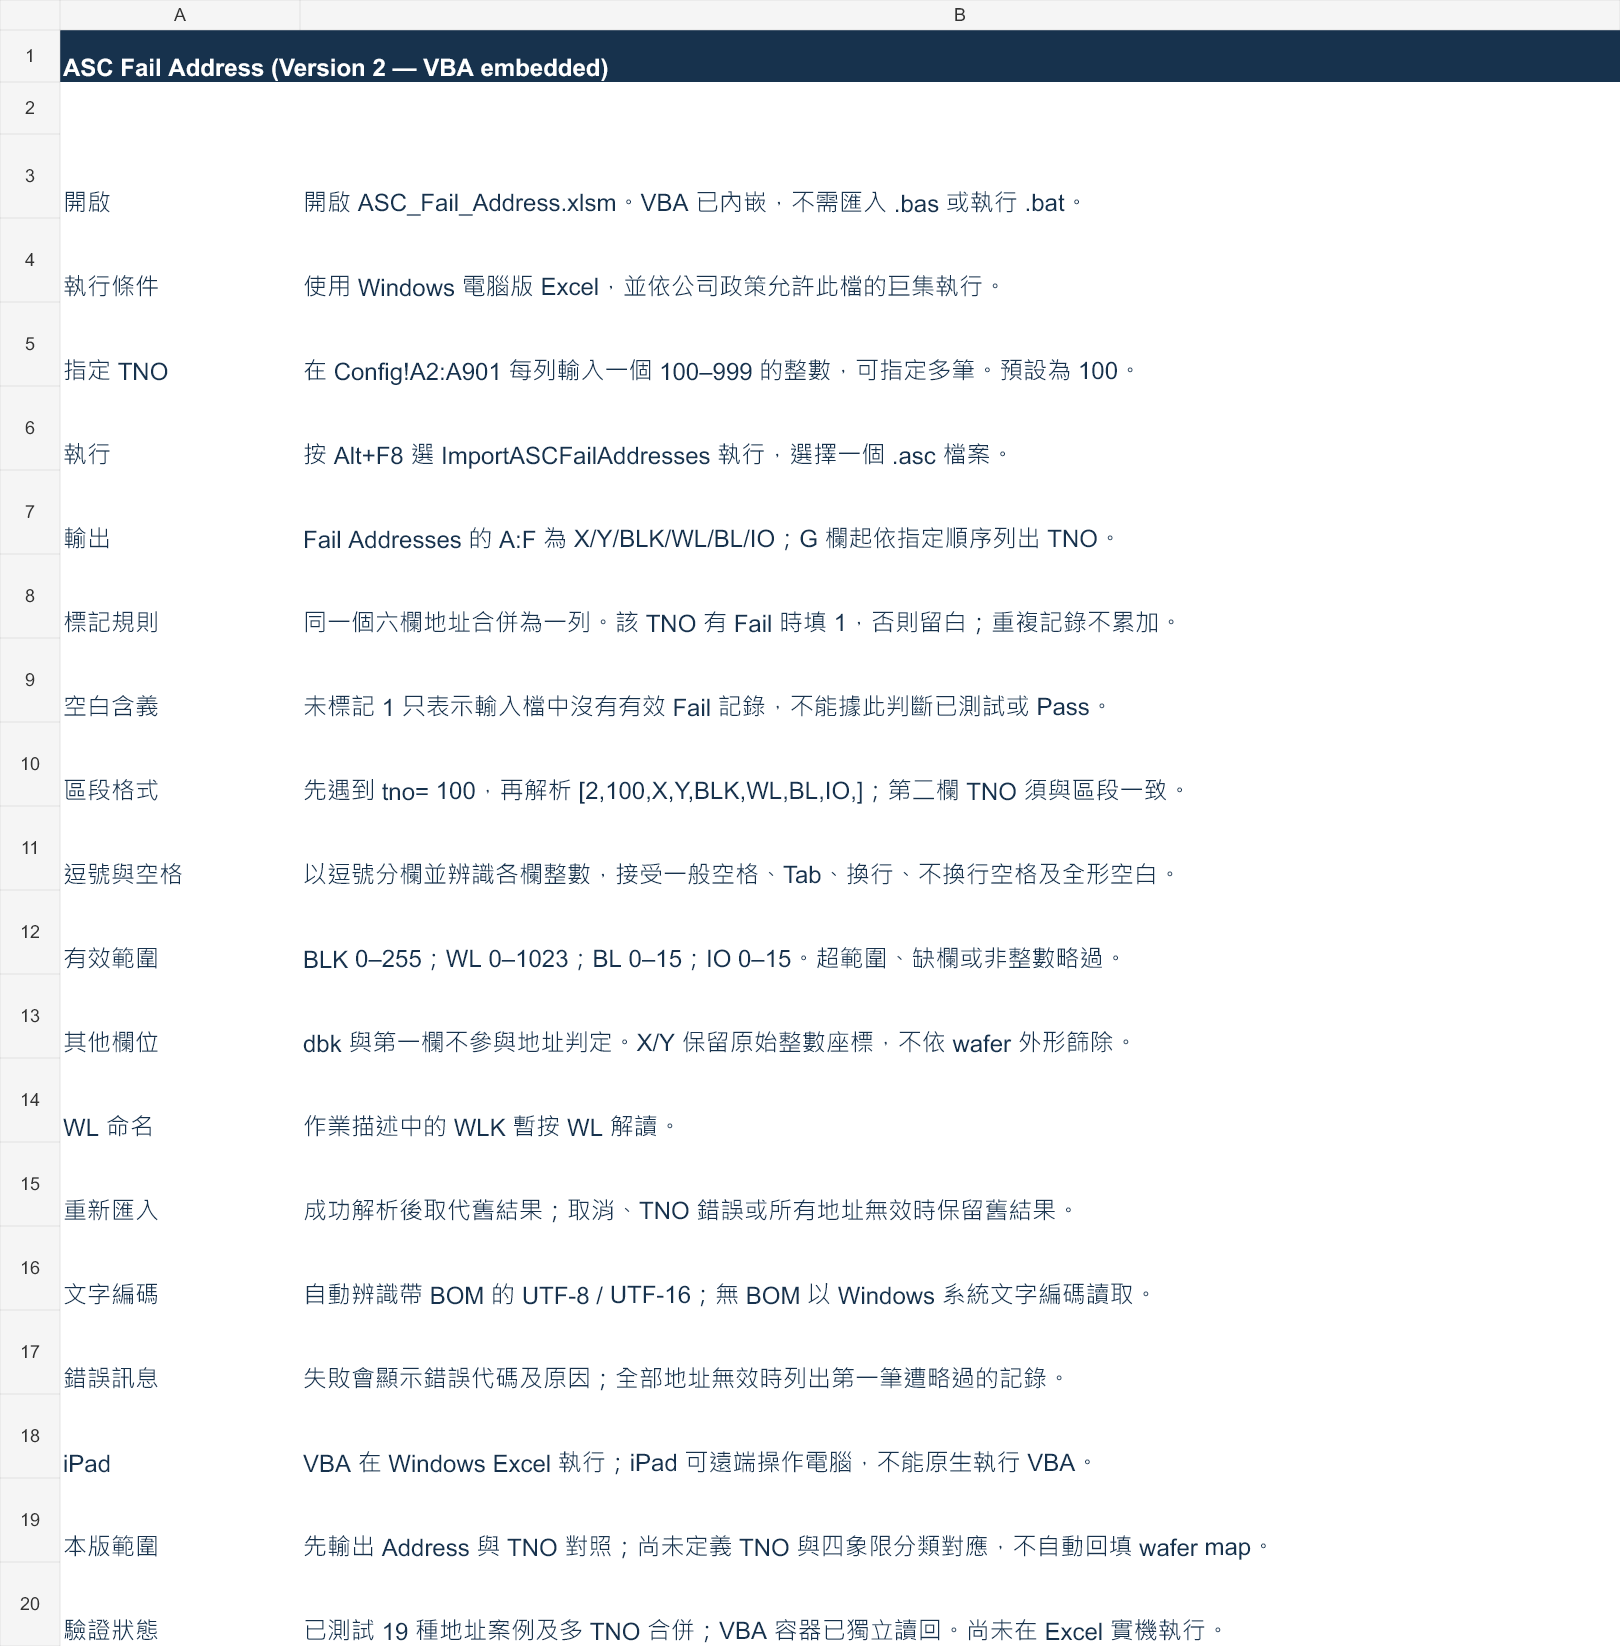
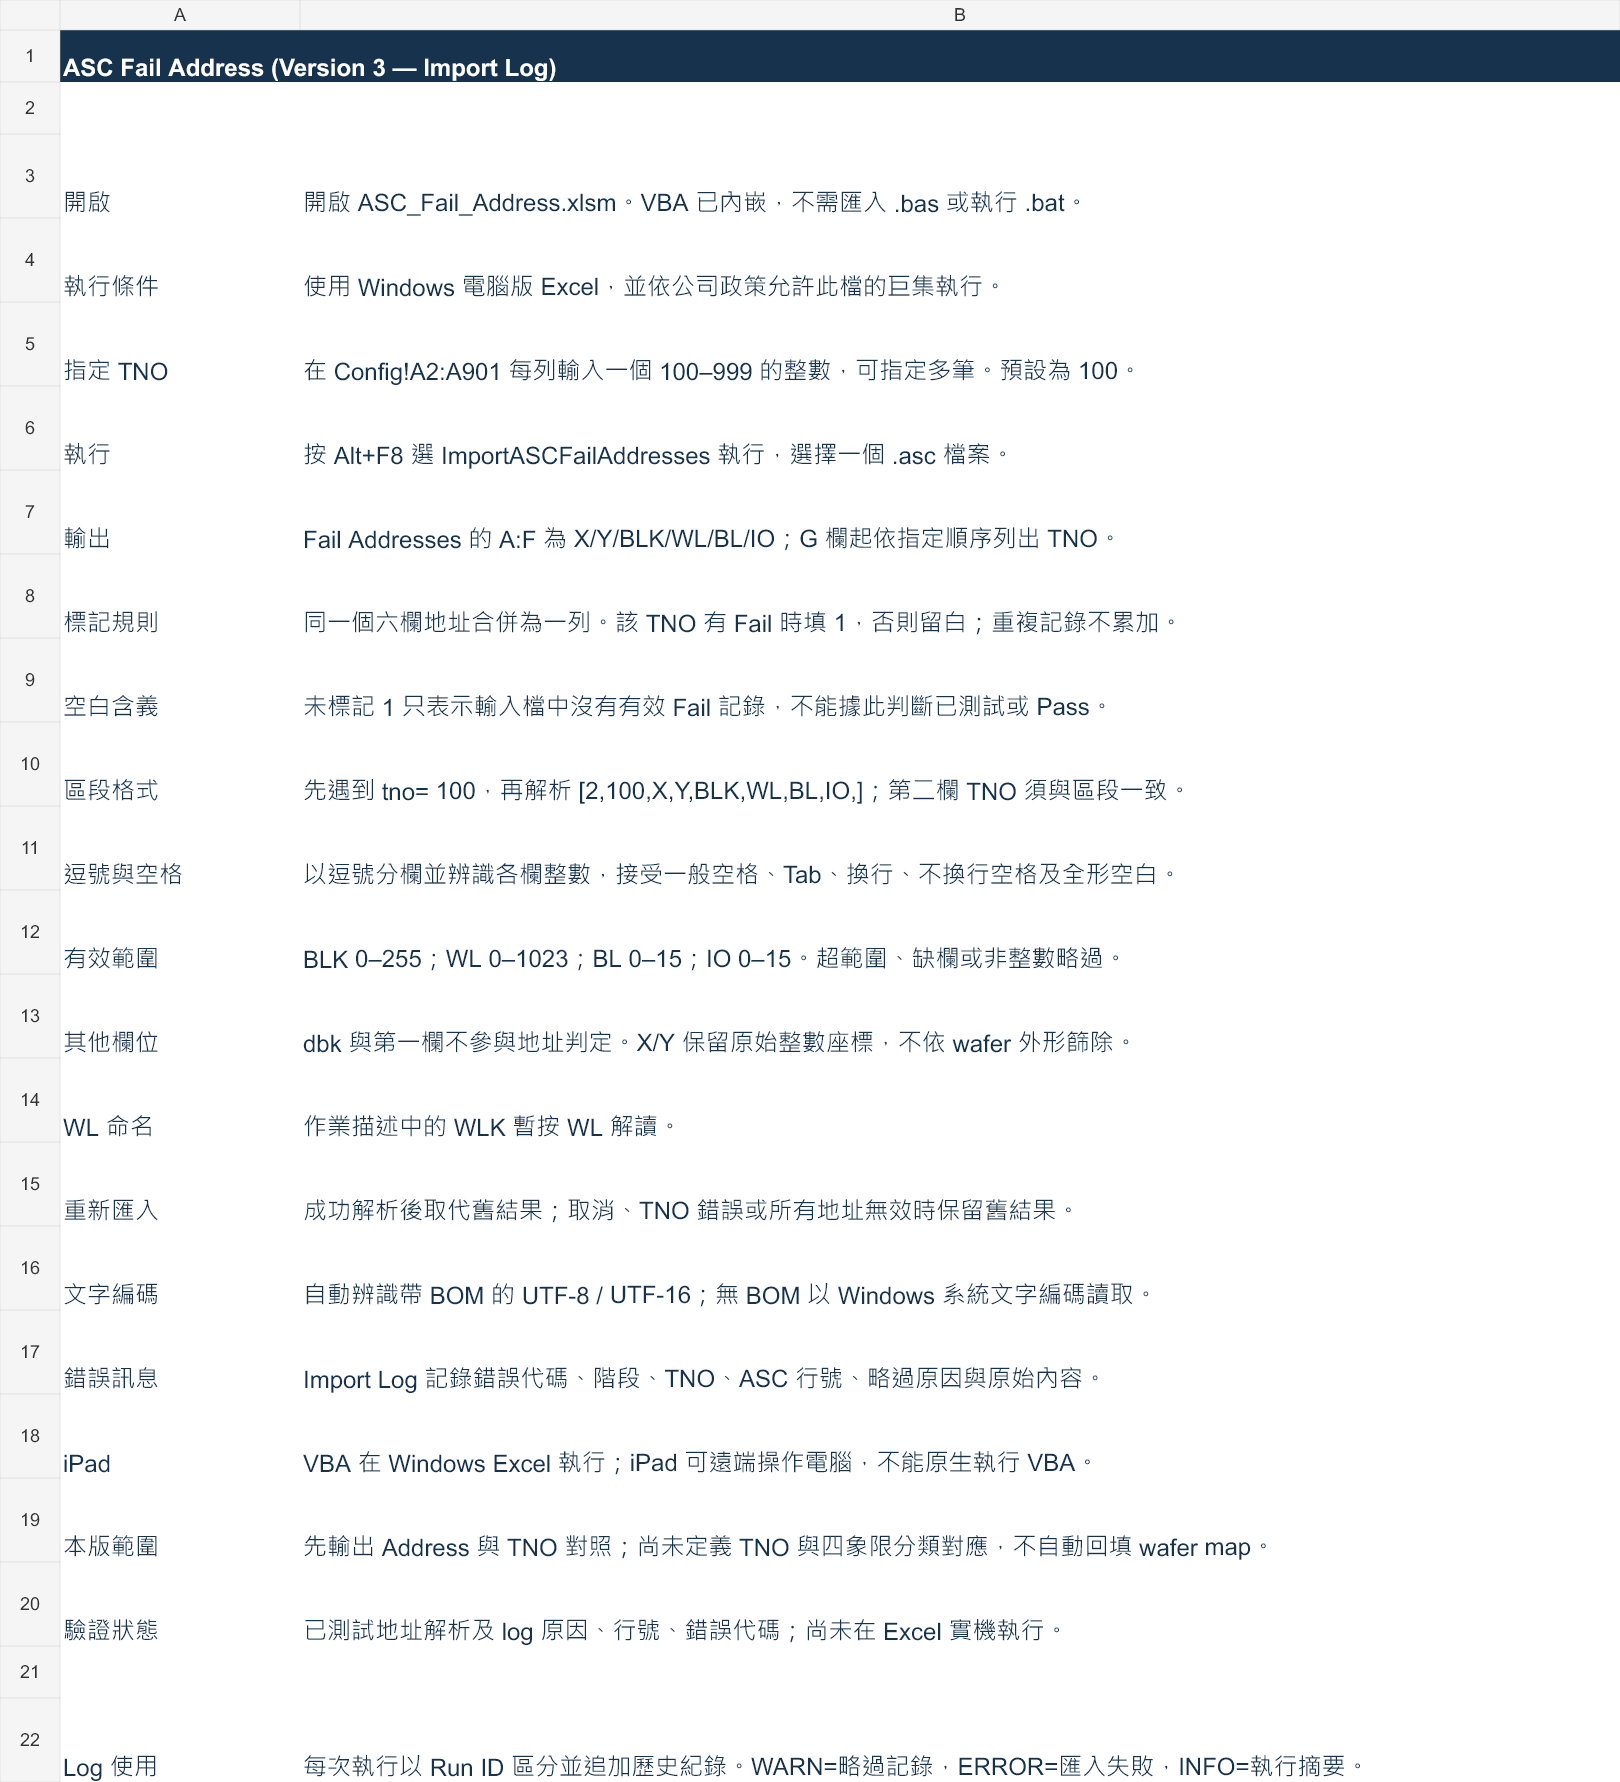
Log import errors and skipped addresses with source context

diff --git a/tools/test_parser.py b/tools/test_parser.py
@@ -10,7 +10,9 @@ import tempfile
 ROOT = pathlib.Path(__file__).resolve().parents[1]
 source = (ROOT / 'src/ImportFailAddresses.bas').read_text(encoding='utf-8')
 helpers = source[source.index('Private Function TryParseAddress'):]
+helpers = re.sub(r'Private Sub FlushImportLog\b.*?End Sub\n', '', helpers, flags=re.S)
 helpers = re.sub(r'Private Function', 'Function', helpers)
+helpers = helpers.replace('Private Sub', 'Sub')
 helpers = re.sub(r' As (String|Variant|Long|Double|Boolean|Object)\b', '', helpers)
 helpers = re.sub(r'\b(\w+)\$', r'\1', helpers)
 helpers = re.sub(r'(\d)#', r'\1', helpers)
@@ -27,8 +29,11 @@ loop = loop.replace('    For Each token In tokens', '    For Each token In token
 tests = '''
 Dim nums, reason, good, bad, tnos, addresses, raw, re, tokens, token
 Dim s, headerTNO, selectedSections, valid, tno, key, flags, accepted, skipped, firstReject, count
+Dim logs, stage, path, runID, lineNumber, cursor, segment, rejectReason, entry
 Set tnos = CreateObject("Scripting.Dictionary")
 Set addresses = CreateObject("Scripting.Dictionary")
+Set logs = CreateObject("Scripting.Dictionary")
+stage = "Parse addresses": path = "synthetic.asc": runID = "test": lineNumber = 1: cursor = 0
 tnos.Add "100", 7
 tnos.Add "101", 8
 Call Check("[ 2, 100, 10, 14, 0, 25, 3, 4, ]", True)
@@ -50,6 +55,7 @@ Call Check("[2,100,10,14,0,0,1 2,0,]", False)
 Call Check("[2,100,10,14,0,0,0,]", False)
 Call Check("[2,100,10,14,0,0,0,0,9,]", False)
 Call Check("[2,100,2147483648,14,0,0,0,0,]", False)
+Call Check("[2,100,10,14,0,0,0,0,", False)
 raw = "tno= 100 dbk=1 > [ 2, 100, 10, 14, 0, 25, 3, 4, ] [2,100,10,14,0,25,3,4,]" & vbCrLf & _
       "[2,100,11,14,255,1023,15,15,] [2,100,10,14,256,0,0,0,]" & vbCrLf & _
       "tno=101 dbk=1 > [2,101,10,14,0,25,3,4,] [2,100,12,14,0,0,0,0,]" & vbCrLf & _
@@ -57,7 +63,8 @@ raw = "tno= 100 dbk=1 > [ 2, 100, 10, 14, 0, 25, 3, 4, ] [2,100,10,14,0,25,3,4,]
 Set re = CreateObject("VBScript.RegExp")
 re.Global = True
 re.IgnoreCase = True
-re.Pattern = "\\btno\\s*=\\s*[0-9]+\\b|\\[[^\\]]*\\]"
+re.Pattern = "\\btno\\s*=\\s*[0-9]+\\b|\\[[^\\]]*\\]|\\[[^\\]]*$"
+raw = Replace(raw, vbCrLf, vbLf)
 Set tokens = re.Execute(raw)
 '''
 assertions = '''
@@ -67,7 +74,16 @@ If addresses.Count <> 2 Or accepted <> 4 Or skipped <> 2 Or selectedSections <> 
 End If
 Set flags = addresses.Item("10,14,0,25,3,4")
 If flags.Count <> 2 Or flags("100") <> 1 Or flags("101") <> 1 Then WScript.Quit 2
-WScript.Echo "PASS: " & count & " address cases; multi-TNO sections, deduplication, and address flags."
+If logs.Count <> 2 Then WScript.Quit 4
+entry = logs.Item(0)
+If entry(2) <> "WARN" Or entry(5) <> "100" Or entry(6) <> 2 Then WScript.Quit 5
+If entry(8) <> "BLK=256; allowed 0-255." Or InStr(entry(9), "256") = 0 Then WScript.Quit 6
+entry = logs.Item(1)
+If entry(6) <> 3 Or entry(8) <> "Bracket TNO differs from section TNO." Then WScript.Quit 7
+AddImportLog logs, runID, "ERROR", "Read ASC", path, "100", 0, 53, "File not found.", ""
+entry = logs.Item(2)
+If logs.Count <> 3 Or entry(2) <> "ERROR" Or entry(7) <> 53 Then WScript.Quit 8
+WScript.Echo "PASS: " & count & " address cases; multi-TNO deduplication; WARN reasons/raw records/TNO/source lines; ERROR stage and code."
 Sub Check(bracket, expected)
  Dim actual
  actual = TryParseAddress(bracket, nums, reason)

diff --git a/tools/verify_xlsm.py b/tools/verify_xlsm.py
@@ -5,14 +5,16 @@ from oletools.olevba import VBA_Parser
 ROOT = Path(__file__).resolve().parents[1]
 parser = VBA_Parser(str(ROOT / 'templates/ASC_Fail_Address.xlsm'))
 sources = {name: code for _, _, name, code in parser.extract_macros()}
-assert len(sources) == 5, list(sources)
+assert len(sources) == 6, list(sources)
 code = next(code for name, code in sources.items() if name.startswith('ImportFailAddresses.'))
 expected = (ROOT / 'src/ImportFailAddresses.bas').read_text(encoding='utf-8')
 assert code.replace('\r\n', '\n').strip() == expected.replace('\r\n', '\n').strip()
 assert 'Public Sub ImportASCFailAddresses()' in code
 assert 'Private Function TryParseAddress' in code
+assert 'Private Sub FlushImportLog' in code
+assert 'Private Sub AddImportLog' in code
 for name, source in sources.items():
     if not name.startswith('ImportFailAddresses.'):
         assert ' Sub ' not in source, name
 parser.close()
-print('PASS: independent olevba extraction; all 5 modules, exact revised BAS source, no sample event handlers.')
+print('PASS: independent olevba extraction; all 6 modules, exact revised BAS source including log helpers, no sample event handlers.')

diff --git a/tools/package_xlsm.py b/tools/package_xlsm.py
@@ -36,7 +36,8 @@ if props is None:
     book.insert(idx, props)
 props.set('codeName', 'ThisWorkbook')
 entries['xl/workbook.xml'] = ET.tostring(book, encoding='utf-8', xml_declaration=True)
-for idx in range(1, 4):
+sheet_count = len(book.find(f'{{{NS}}}sheets'))
+for idx in range(1, sheet_count + 1):
     name = f'xl/worksheets/sheet{idx}.xml'
     sheet = ET.fromstring(entries[name])
     props = sheet.find(f'{{{NS}}}sheetPr')
@@ -54,4 +55,4 @@ with zipfile.ZipFile(output) as z:
     for name in entries:
         if name.endswith('.xml') or name.endswith('.rels'):
             ET.fromstring(z.read(name))
-print('Packaged XLSM: VBA relationship, macro content type, 4 host code names, XML/ZIP integrity verified.')
+print(f'Packaged XLSM: VBA relationship, macro content type, {sheet_count + 1} host code names, XML/ZIP integrity verified.')

diff --git a/README.md b/README.md
@@ -36,6 +36,25 @@ tno= 100 dbk= 1 > [2, 100, 10, 14, 0, 25, 3, 4,]
 
 空白表示輸入檔中未找到對應的有效 Fail 記錄，不能據此推論已測試或 Pass。每次匯入取代舊結果；取消檔案選擇、輸入驗證失敗、沒有指定的 TNO 區段及全部地址無效時保留舊結果。錯誤對話框保留原始錯誤代碼及原因；全部地址無效時附第一筆遭略過的記錄。
 
+## Import Log
+
+匯入失敗或資料被略過時，請查看 Excel 的 **Import Log** 分頁。每次執行以 Run ID 區分，追加歷史紀錄，不清除前次 log。關閉 Excel 前請儲存活頁簿，以保留這些紀錄。
+
+| 欄位 | 內容 |
+|---|---|
+| Timestamp / Run ID | 時間與此次執行識別碼 |
+| Level | INFO：開始、取消與完成摘要；WARN：略過地址；ERROR：匯入失敗 |
+| Stage | Config 驗證、讀檔、解析、建立或寫入結果等階段 |
+| ASC File / TNO | 來源檔案與當前 TNO |
+| Source Line | 原始 ASC 的行號；跨行地址記錄起始行，非來源檔錯誤使用 0 |
+| Error Code | VBA 錯誤代碼；資料略過使用 0 |
+| Reason | 欄位缺漏、非整數、TNO 不符或範圍錯誤；範圍錯誤包含實際值與允許範圍 |
+| Raw Record | 有問題的原始記錄（Excel 儲存格上限為 32,767 字元） |
+
+例如 `WL=1024; allowed 0-1023.` 可直接定位超範圍欄位。只記錄指定 TNO 區段中的資料略過問題，未選取的測試項目不逐筆記 WARN。
+
+這份 log 是匯入與資料格式的診斷紀錄；原始 ASC 未提供電性失效原因，因此不推測 SRAM 的物理失效機制。若 log 寫入失敗（例如活頁簿唯讀、工作表受保護或 log 列數已滿），錯誤對話框會另外顯示 log 無法保存的原因。
+
 ## 128-chip wafer 參考
 
 | Y | X 範圍 | 每列 chips |
@@ -61,8 +80,8 @@ tno= 100 dbk= 1 > [2, 100, 10, 14, 0, 25, 3, 4,]
 
 ## 狀態與限制
 
-- 第二版已內嵌修正版 VBA，依使用者提供的格式建立，尚未取得實際 ASC 樣本。
-- 使用 Windows VBScript 引擎執行從 VBA 原始碼轉換的解析函式及區段處理：19 種地址案例通過，涵蓋空白字元、範圍上下限、錯誤欄位、多 TNO、重複地址與 1 標記。
+- 第三版內嵌 VBA 並加入 Import Log，依使用者提供的格式建立，尚未取得實際 ASC 樣本。
+- 使用 Windows VBScript 引擎執行從 VBA 原始碼轉換的解析函式及區段處理：20 種地址案例通過，涵蓋空白字元、範圍上下限、錯誤欄位、多 TNO、重複地址與 1 標記；也已測試 WARN 的原因、原始內容、TNO、來源行號與 ERROR 的階段、錯誤代碼。
 - VBA 容器已經獨立的 `olevba` 讀回，核對內嵌原始碼與 `.bas` 完全一致；XML/ZIP、巨集關聯及文件代碼名稱已檢查。
 - 開發環境未安裝 Excel；上述測試不代表已完成 Excel 原生編譯、檔案選擇及真實 ASC 匯入驗證。
 - ASC 目前整檔讀入記憶體。自動辨識帶 BOM 的 UTF-8 / UTF-16；無 BOM 時使用 Windows 系統文字編碼。

diff --git a/docs/release-v0.3.0.md b/docs/release-v0.3.0.md
@@ -1,0 +1,11 @@
+# v0.3.0 — Import Log
+
+下載新的 `ASC_Fail_Address.xlsm`，VBA 已內嵌。
+
+- 新增 Import Log 分頁，記錄時間、Run ID、Level、Stage、ASC 路徑、TNO、來源行號、錯誤代碼、原因及原始內容。
+- 每次執行追加歷史紀錄；INFO 記錄開始、取消與完成摘要，WARN 記錄略過地址，ERROR 記錄匯入失敗。
+- 範圍錯誤顯示實際值及允許範圍；非整數顯示欄位位置與內容。
+- 跨行地址使用起始行號；缺少結尾方括號也會進入檢查並寫入原因。
+- 若 log 無法保存，對話框會另行顯示原因。關閉 Excel 前請儲存活頁簿，以保留 log。
+
+驗證：20 種地址案例、多 TNO 去重及 log 原因、TNO、來源行號、錯誤代碼通過；內嵌 VBA 經獨立抽取確認一致。尚未取得真實 ASC，且建置環境沒有桌面版 Excel，尚未完成 Excel 實機的匯入及工作表 log 寫入驗證。
